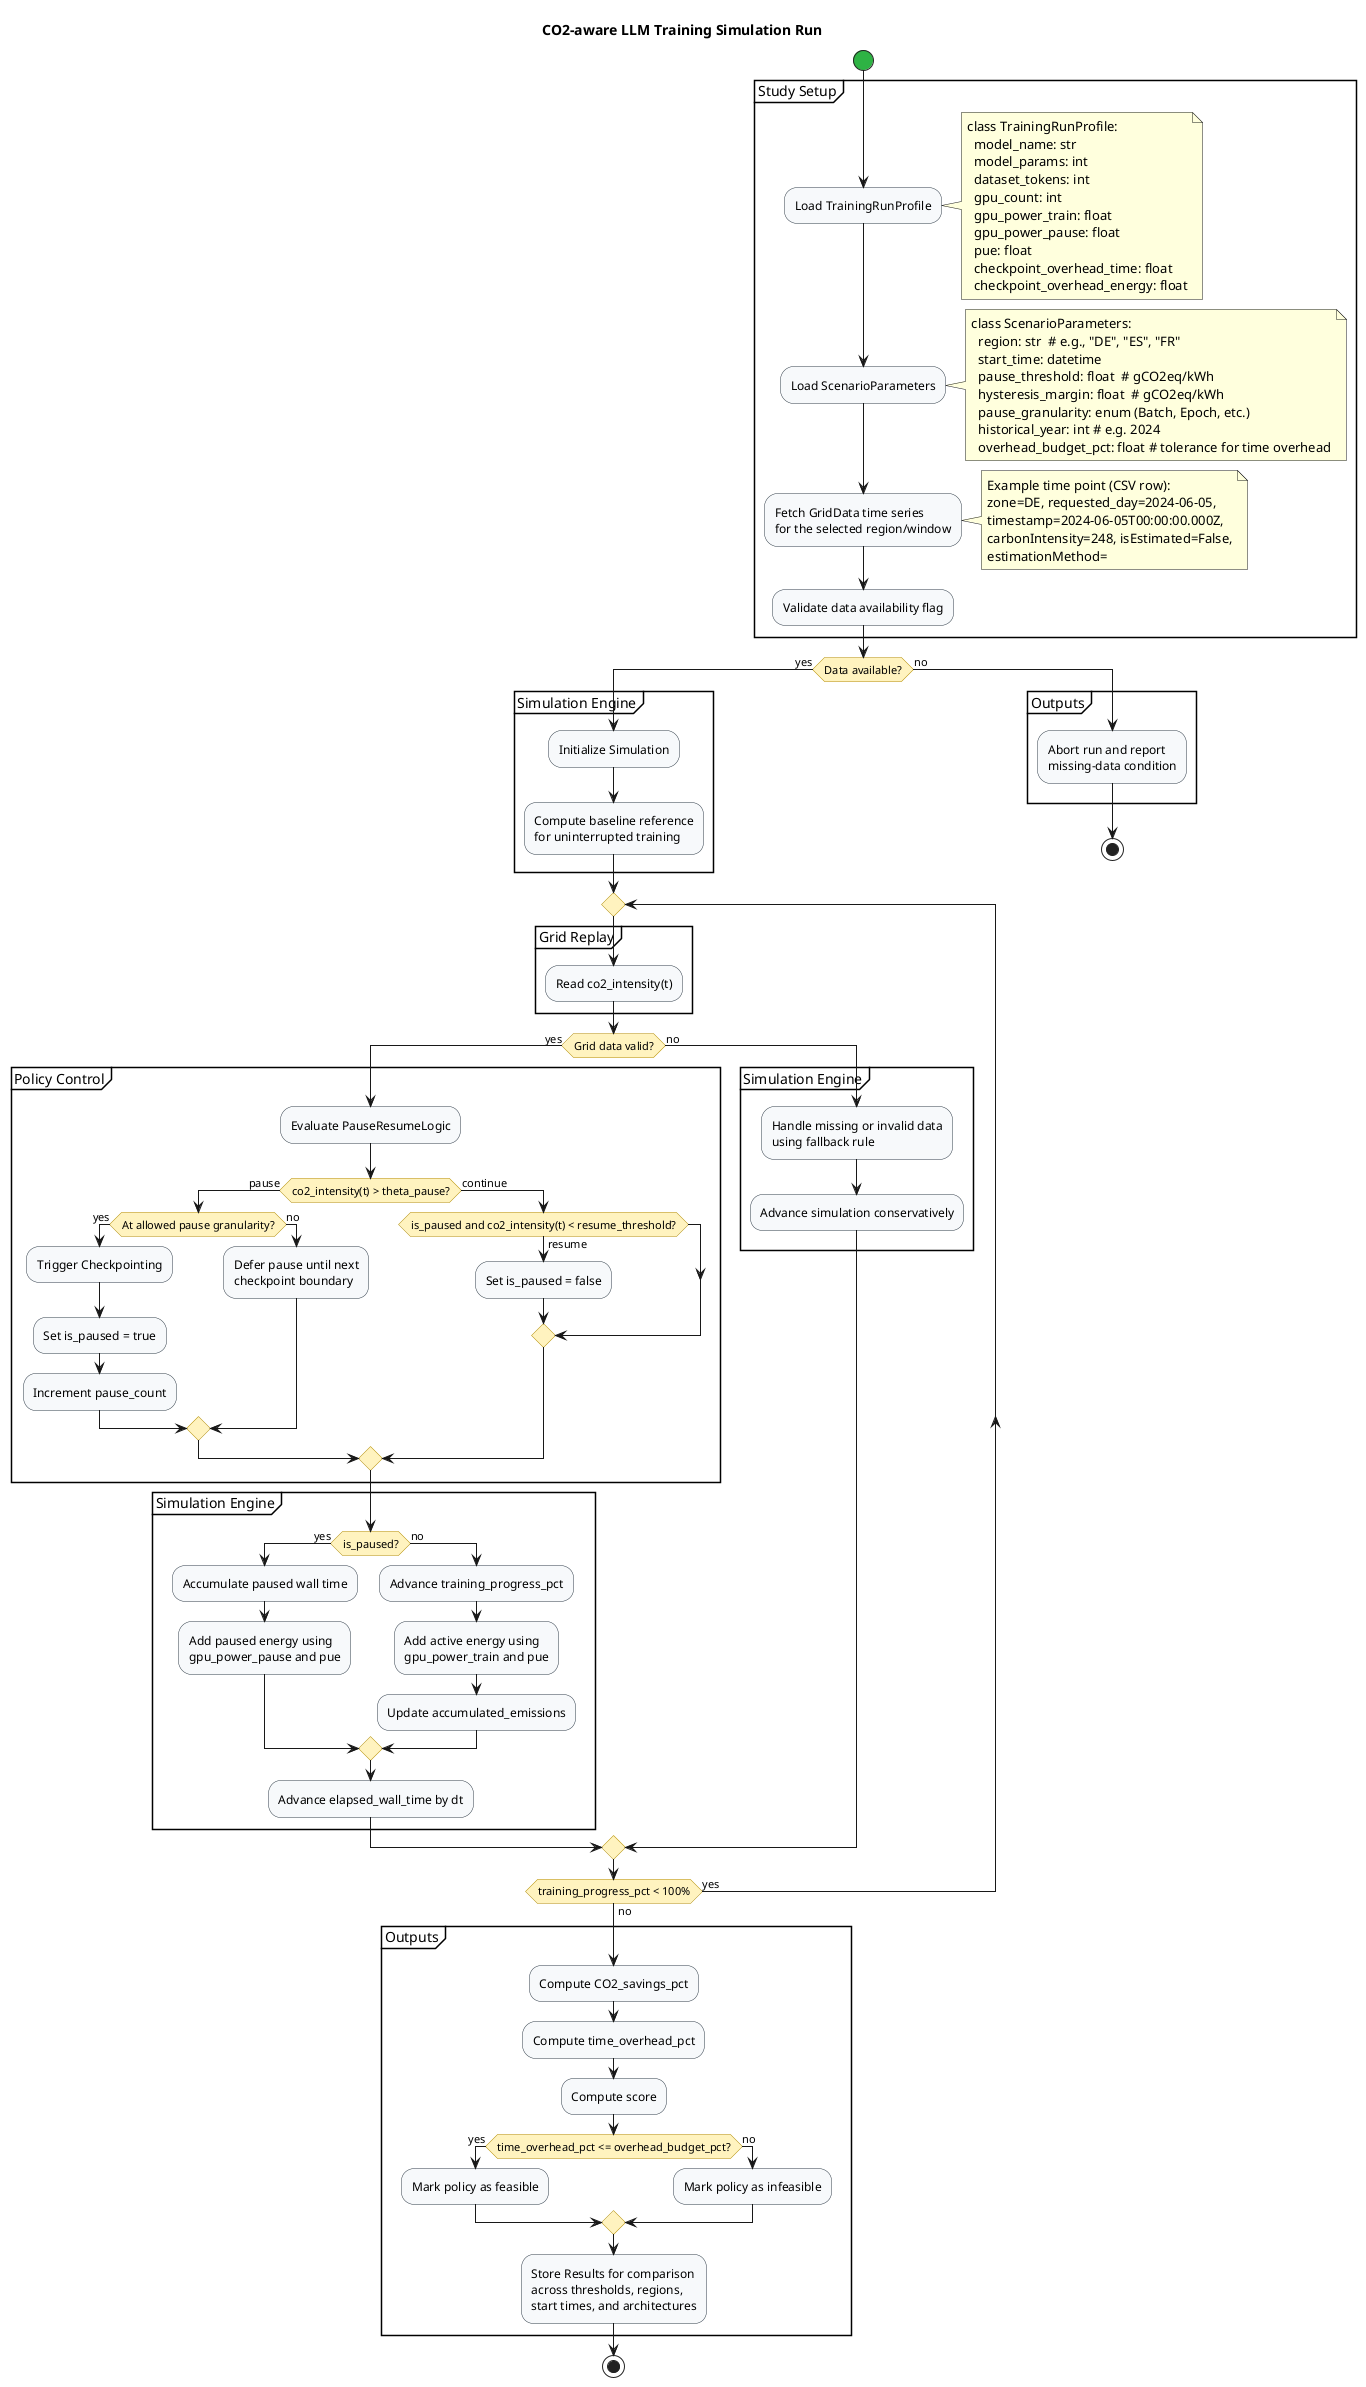
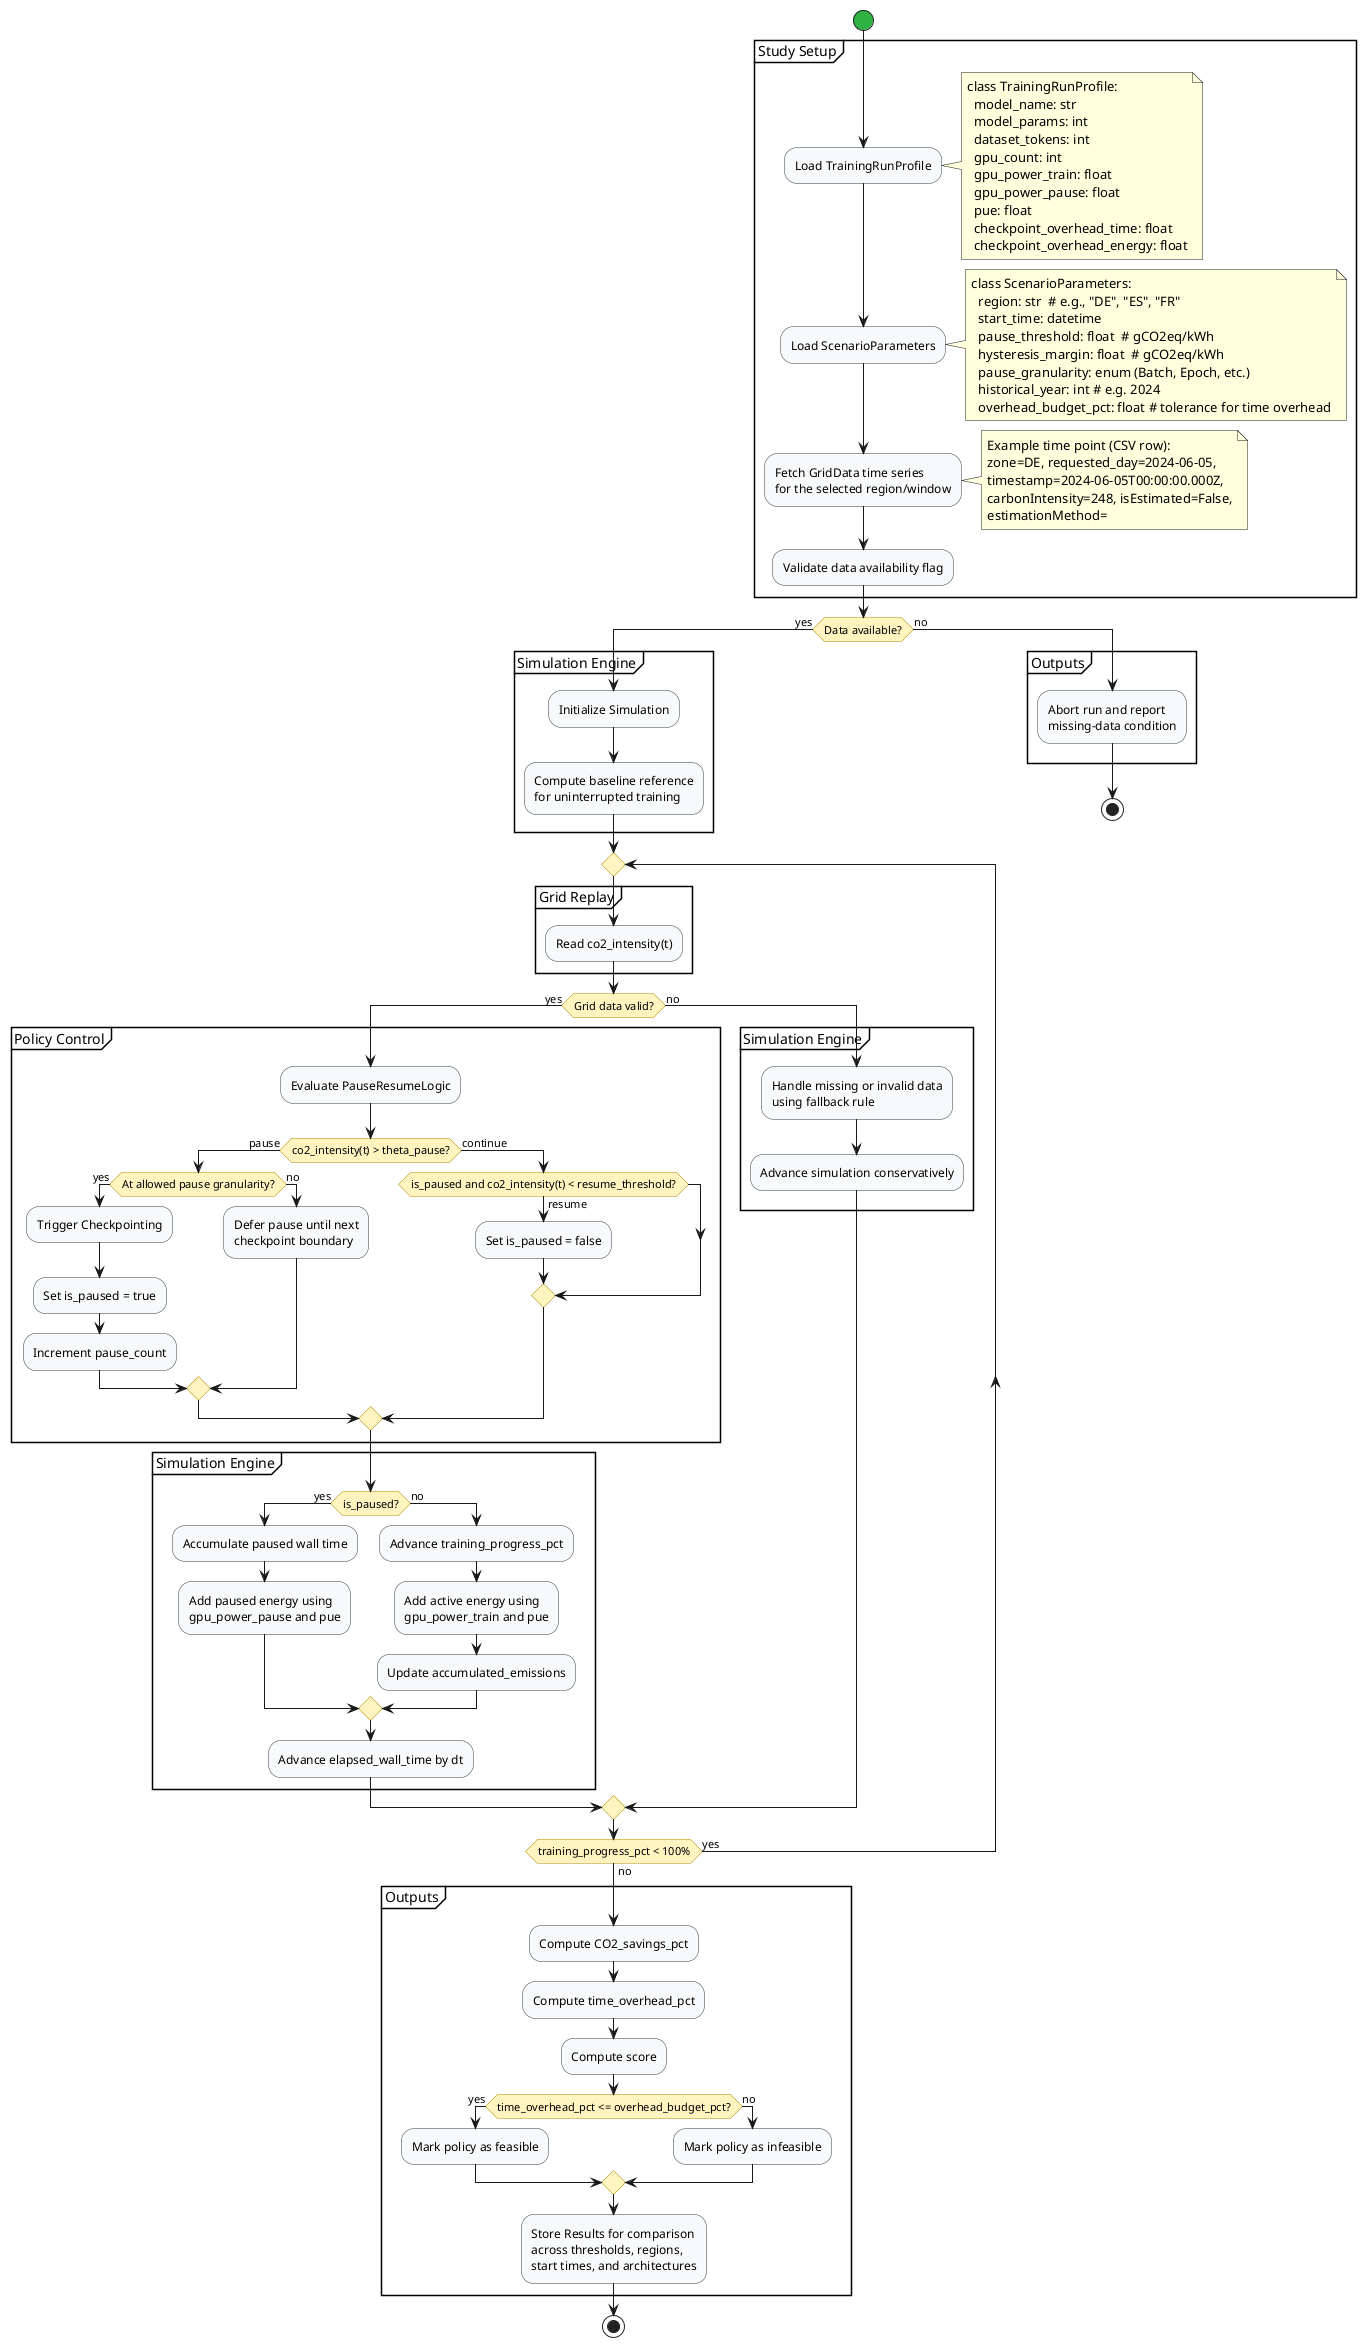
chore: split activity diagram

diff --git a/presentation/sections/14_activity.tex b/presentation/sections/14_activity.tex
@@ -1,6 +1,14 @@
 \begin{frame}[t]{Simulation Run Activity}{}
 
-  \centering
-  \includegraphics[width=\textwidth,height=0.85\textheight,keepaspectratio]{../diagrams/activity_simulation_run}
+  \begin{columns}[T]
+    \begin{column}{0.48\textwidth}
+      \centering
+      \includegraphics[width=\textwidth,height=0.8\textheight,keepaspectratio]{../diagrams/activity_simulation_run_part1}
+    \end{column}
+    \begin{column}{0.48\textwidth}
+      \centering
+      \includegraphics[width=\textwidth,height=0.8\textheight,keepaspectratio]{../diagrams/activity_simulation_run_part2}
+    \end{column}
+  \end{columns}
 
 \end{frame}